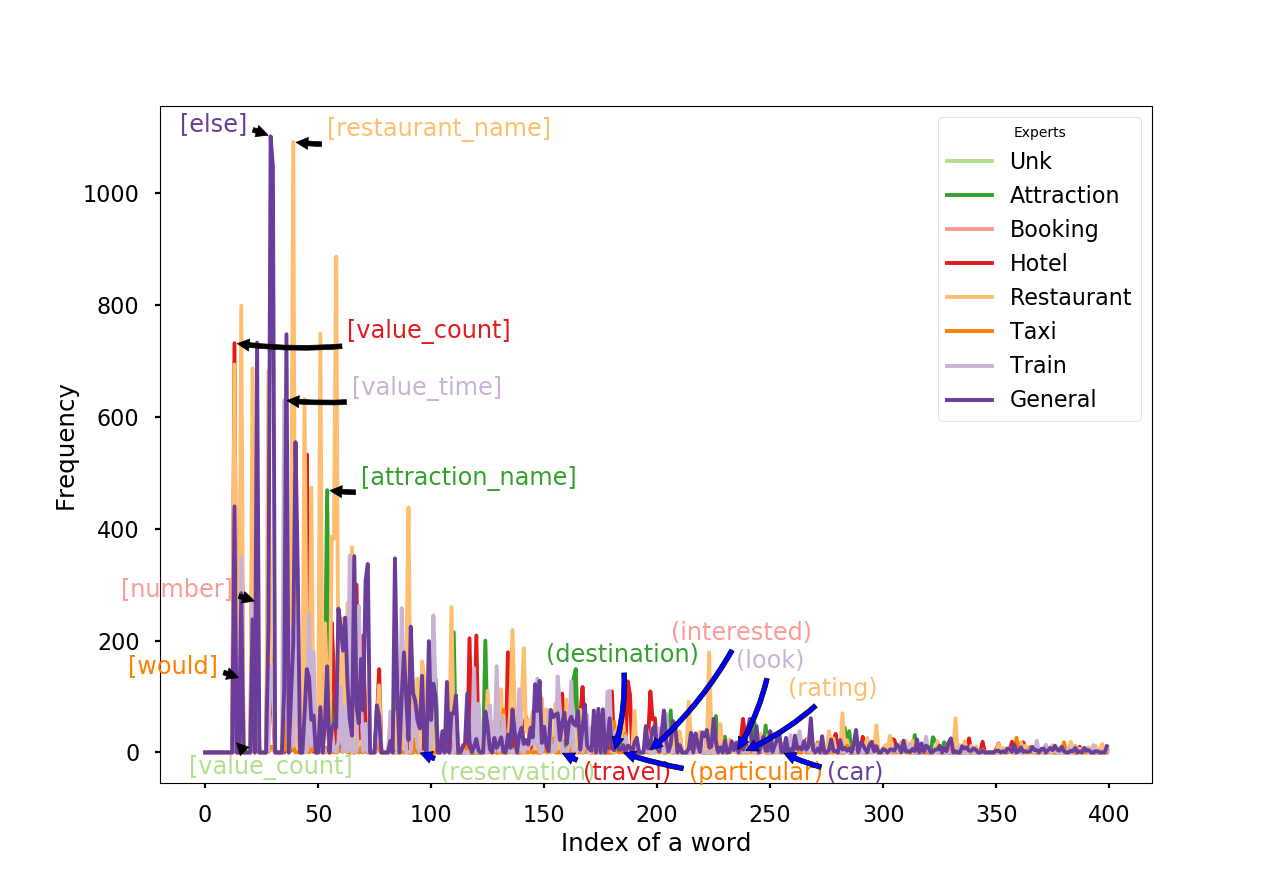
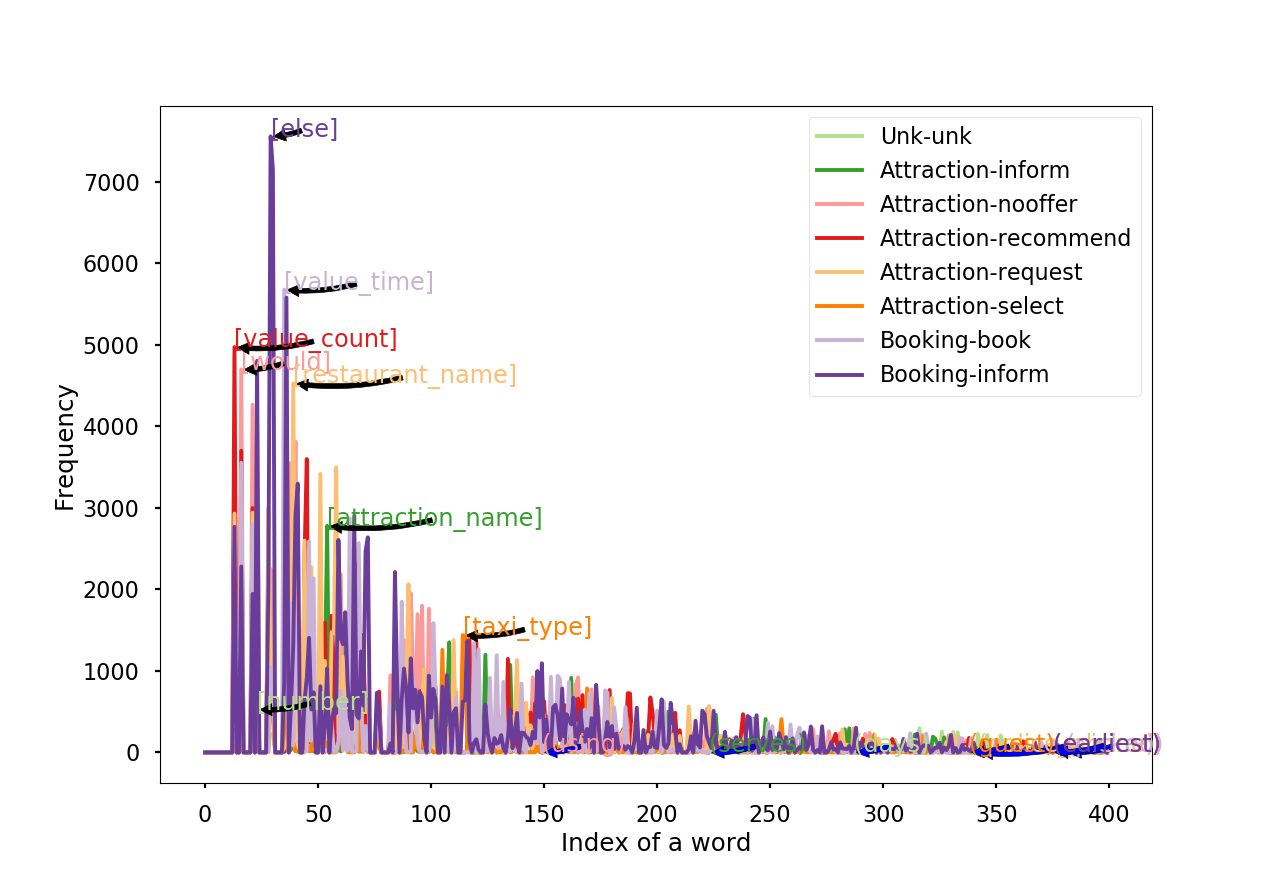
good results of RMOE-gru job_out=moe4_gru-30100.out

diff --git a/post/statstics.py b/post/statstics.py
@@ -27,13 +27,28 @@ colormap = bmap.mpl_colors
 import seaborn as sns
 
 from scipy.interpolate import spline, interp1d
+from scipy.stats import entropy
+from itertools import combinations
 
 from nltk.corpus import stopwords
 stopwords.words('english')
 from string import punctuation, capwords
 punctuations = list(punctuation)
 
-def loadData(data_dir='data',intent_type='domain'):
+# Kullback-Leibler divergence
+def KL(p, q):
+    return entropy(p, q)
+
+# Average KL
+def AKL(expert_prob_list):
+    epsilon = 10e-2
+    KL_list = []
+    for pi, pj in combinations([[np.float(e)+epsilon for e in l] for l in expert_prob_list], 2): # c_n^2
+        # KL_list.append(np.square(entropy(pi, pj)))
+        KL_list.append(entropy(pi, pj))
+    return np.mean(KL_list)
+
+def loadData(data_dir='data/multi-woz',intent_type='domain', plot_flag=False):
     input_lang_index2word, output_lang_index2word, input_lang_word2index, output_lang_word2index = util.loadDictionaries(mdir=data_dir)
     # pp added: load intents
     intent2index, index2intent = util.loadIntentDictionaries(intent_type=intent_type, intent_file='{}/intents.json'.format(data_dir)) if intent_type else (None, None)
@@ -44,13 +59,19 @@ def loadData(data_dir='data',intent_type='domain'):
         # print train_dials
 
     intent_text = {}
-    for name, dial in train_dials.items():
-        for intent, sys, acts in zip(intent2index.keys(), dial['sys'], dial['acts']):
-            if intent in ' '.join(acts):
-                if intent not in intent_text:
-                    intent_text[intent] = sys
+    for name, dial in train_dials.items(): # dial
+        for sys, acts in zip(dial['sys'], dial['acts']): # turn
+            for intent in intent2index.keys():
+                if intent in ' '.join(acts):
+                    if intent not in intent_text:
+                        intent_text[intent] = sys
+                    else:
+                        intent_text[intent] += ' ' + sys
                 else:
-                    intent_text[intent] += ' ' + sys
+                    pass
+                    # if intent == 'Hotel-Request':
+                    #     print('00000')
+                    #     print('NULL')
 
     labels = []
     output_vocab_len = 400
@@ -66,7 +87,9 @@ def loadData(data_dir='data',intent_type='domain'):
         'Train': (30, 10, 0, 150),
         'general': (-40, 10, 20, -50)
     }
+
     tmp = []
+    distributions = []
     for i in range(len(index2intent.keys())):
         intent = index2intent[i]
         labels.append(capwords(intent))
@@ -76,8 +99,11 @@ def loadData(data_dir='data',intent_type='domain'):
         rm_words = stopwords.words() + punctuations + specials  # we filter these words
         for word in rm_words:
             del target_dict_k[word]
-        print intent, ':::', target_dict_k
+        print(intent, ':::', target_dict_k)
         y = [target_dict_k[output_lang_index2word['%s' % ii]] for ii in x]
+
+        # print('Expert_i_probs_list=', y)
+        distributions.append(y)
 
         # smooth curves
         xnew = np.linspace(x.min(), x.max(), 400)
@@ -87,30 +113,36 @@ def loadData(data_dir='data',intent_type='domain'):
         # func = interp1d(x, y, kind='nearest') # cubic
         # y = func(xnew)
         tmp.append(y)
-        l_k, = plt.plot(x, y, color=colormap[i + 2], label=intent)
-        lines.append(l_k)
-        # show top-n
-        N = 1
-        for j in np.arange(N):
-            k_max, v_max = target_dict_k.most_common()[j]
-            max_indx = output_lang_word2index[k_max]
-            plt.annotate('[%s]' % (re.sub(r'\[|\]', '', k_max)),
-                         xytext=(max_indx + shift[intent][0], v_max + shift[intent][1]), xy=(max_indx, v_max),
-                         color=colormap[i + 2], fontsize='xx-large',
-                         arrowprops=dict(facecolor='black',
-                                         arrowstyle="simple",
-                                         connectionstyle="arc3,rad=-0.1"))
-        # show lowest-n
-        start = 10
-        for j in np.arange(start, N + start):
-            k_min, v_min = target_dict_k.most_common()[-j]
-            min_indx = output_lang_word2index[k_min]
-            plt.annotate('(%s)' % (re.sub(r'\[|\]', '', k_min)),
-                         xytext=(min_indx + +shift[intent][2], v_min + shift[intent][3]), xy=(min_indx, v_min),
-                         color=colormap[i + 2], fontsize='xx-large',
-                         arrowprops=dict(facecolor='blue',
-                                         arrowstyle="simple",
-                                         connectionstyle="arc3,rad=-0.1"), )
+        if plot_flag:
+            l_k, = plt.plot(x, y, color=colormap[i + 2], label=intent)
+            lines.append(l_k)
+            # show top-n
+            N = 1
+            for j in np.arange(N):
+                k_max, v_max = target_dict_k.most_common()[j]
+                max_indx = output_lang_word2index[k_max]
+                plt.annotate('[%s]' % (re.sub(r'\[|\]', '', k_max)),
+                             # xytext=(max_indx + shift[intent][0], v_max + shift[intent][1]),
+                             xy=(max_indx, v_max),
+                             color=colormap[i + 2], fontsize='xx-large',
+                             arrowprops=dict(facecolor='black',
+                                             arrowstyle="simple",
+                                             connectionstyle="arc3,rad=-0.1"))
+            # show lowest-n
+            start = 10
+            for j in np.arange(start, N + start):
+                k_min, v_min = target_dict_k.most_common()[-j]
+                min_indx = output_lang_word2index[k_min]
+                plt.annotate('(%s)' % (re.sub(r'\[|\]', '', k_min)),
+                             # xytext=(min_indx + +shift[intent][2], v_min + shift[intent][3]),
+                             xy=(min_indx, v_min),
+                             color=colormap[i + 2], fontsize='xx-large',
+                             arrowprops=dict(facecolor='blue',
+                                             arrowstyle="simple",
+                                             connectionstyle="arc3,rad=-0.1"), )
+
+    # print(distributions)
+    print(intent_type, '=', AKL(distributions))
 
     plt.legend(labels=labels)
     plt.xlabel('Index of a word')
@@ -118,5 +150,8 @@ def loadData(data_dir='data',intent_type='domain'):
     # plt.grid()
     # plt.show()
     plt.savefig('post/Statistic.png')
+
 if __name__ == "__main__":
-    loadData()
+    loadData(intent_type='domain', plot_flag=True)
+    loadData(intent_type='sysact')
+    loadData(intent_type='domain_act')

diff --git a/models/model.py b/models/model.py
@@ -681,7 +681,9 @@ class Model(nn.Module):
         # pp added: extract forward output of encoder if use SentMoE and 2 directions
         if self.num_directions == 2 and self.args.SentMoE:
             if isinstance(encoder_hidden, tuple):
+                # pp added: forward or backward
                 encoder_hidden = encoder_hidden[0][0].unsqueeze(0), encoder_hidden[1][0].unsqueeze(0)
+                # encoder_hidden = encoder_hidden[0][1].unsqueeze(0), encoder_hidden[1][1].unsqueeze(0)
             else:
                 encoder_hidden = encoder_hidden[0].unsqueeze(0)
 
@@ -747,7 +749,9 @@ class Model(nn.Module):
             # pp added: extract backward output of encoder
             if self.num_directions == 2:
                 if isinstance(encoder_hidden, tuple):
+                    # pp added: forward or backward
                     encoder_hidden = encoder_hidden[0][1].unsqueeze(0), encoder_hidden[1][1].unsqueeze(0)
+                    # encoder_hidden = encoder_hidden[0][0].unsqueeze(0), encoder_hidden[1][0].unsqueeze(0)
                 else:
                     encoder_hidden = encoder_hidden[1].unsqueeze(0)
 
@@ -938,11 +942,11 @@ class Model(nn.Module):
         if not os.path.exists(self.model_dir):
             os.makedirs(self.model_dir)
 
-        torch.save(self.encoder.state_dict(), self.model_dir + self.model_name + '-' + str(iter) + '.enc')
-        torch.save(self.policy.state_dict(), self.model_dir + self.model_name + '-' + str(iter) + '.pol')
-        torch.save(self.decoder.state_dict(), self.model_dir + self.model_name + '-' + str(iter) + '.dec')
+        torch.save(self.encoder.state_dict(), self.model_dir + '/' + self.model_name + '-' + str(iter) + '.enc')
+        torch.save(self.policy.state_dict(), self.model_dir + '/'  + self.model_name + '-' + str(iter) + '.pol')
+        torch.save(self.decoder.state_dict(), self.model_dir + '/' + self.model_name + '-' + str(iter) + '.dec')
 
-        with open(self.model_dir + self.model_name + '.config', 'w') as f:
+        with open(self.model_dir + '/' + self.model_name + '.config', 'w') as f:
             json.dump(vars(self.args), f, ensure_ascii=False, indent=4)
 
     def loadModel(self, iter=0):

diff --git a/train.py b/train.py
@@ -368,10 +368,14 @@ if __name__ == '__main__':
     model = Model(args, input_lang_index2word, output_lang_index2word, input_lang_word2index, output_lang_word2index, intent2index, index2intent)
     # models = nn.DataParallel(models, device_ids=[0,1]) # latter for parallel
     model = model.to(detected_device)
+
     if args.load_param:
         model.loadModel(args.epoch_load)
 
+
     evaluator = MultiWozEvaluator('MultiWozEvaluator', delex_path=args.delex_path)
+
+    # Test_Score = evaluator.summarize_report(test_dials_gen, mode='Test')
 
     trainIters(model, intent2index, n_epochs=args.max_epochs, args=args)
 
